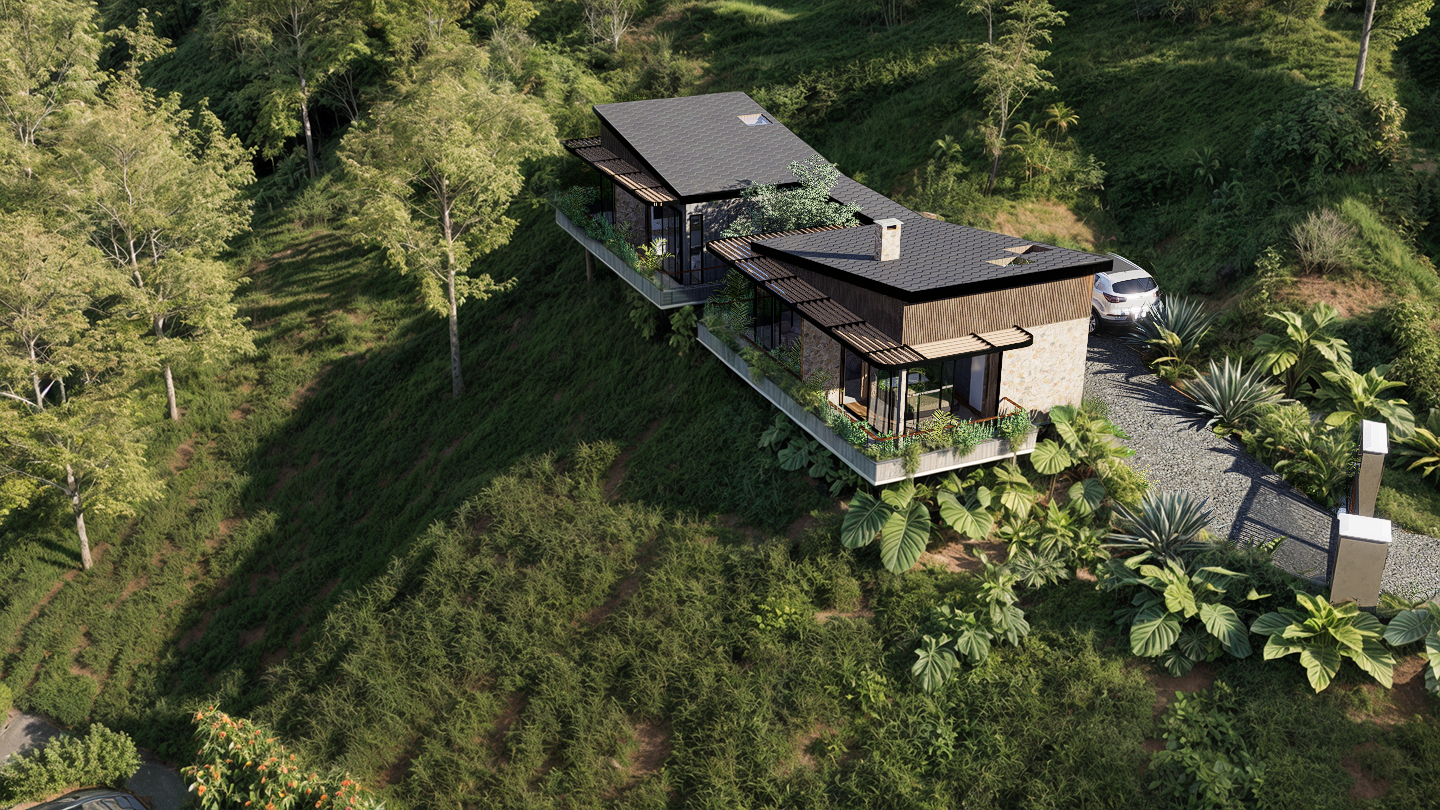
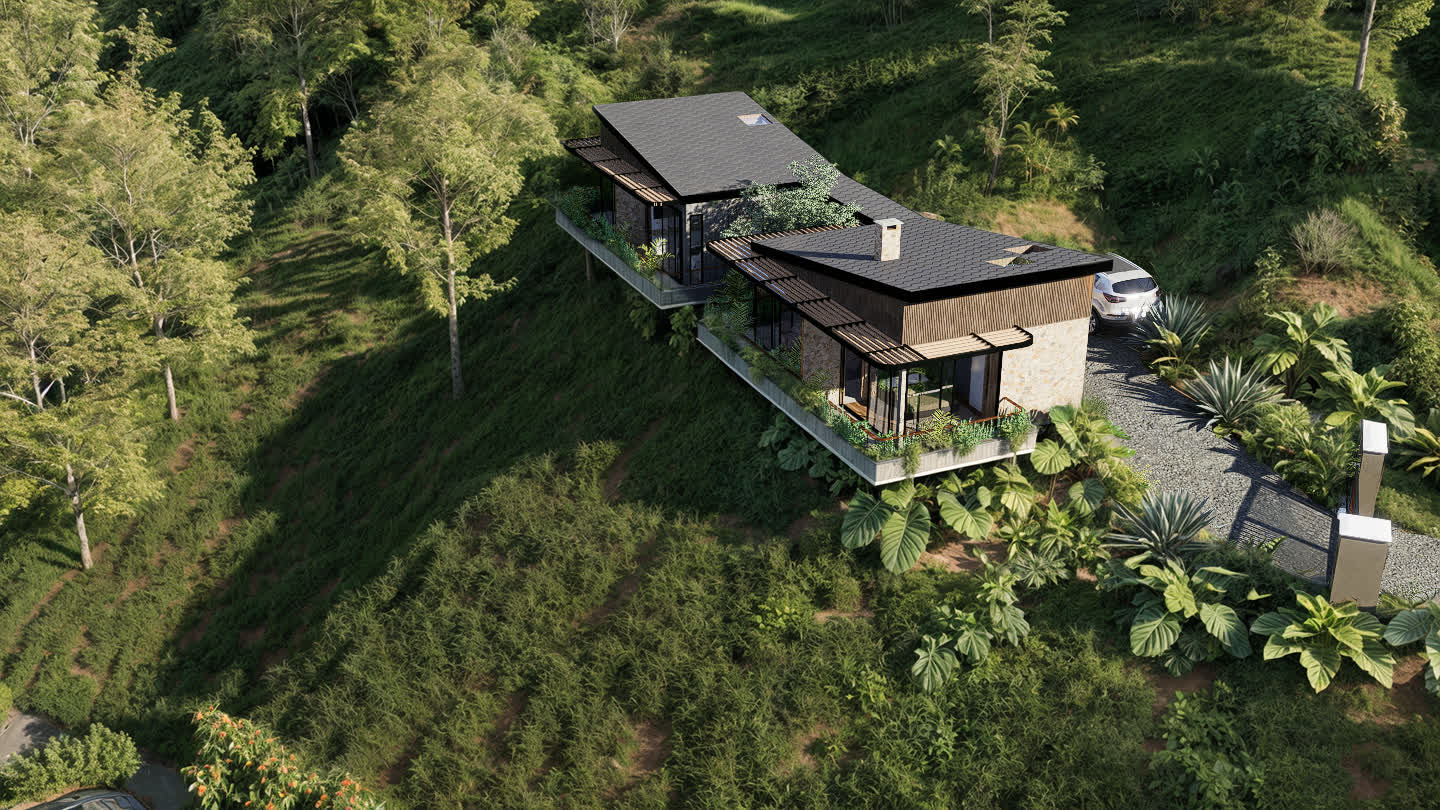
Update quiz, gallery lightbox, optimizations and UI refinements
- Quiz reduced to 3 questions (clima, estilo visual, forma del lote)
- Fullscreen carousel for match results with lightbox gallery
- Image compression (200MB+ → 17MB), lazy loading, PNG→WebP
- WhatsApp CTA with dynamic message based on plan selection
- Floating WhatsApp bubble on results slide
- Gallery zoom, message cards overlay, instant style switching
- Disabled swipe between main steps (button-only navigation)
- Hero gallery cascade with higher opacity

diff --git a/js/match.js b/js/match.js
@@ -24,10 +24,11 @@ const PREGUNTAS = [
   },
   {
     num: '03',
-    texto: '¿De cuántos niveles imaginas tu vivienda?',
+    texto: '¿Qué forma tiene tu lote?',
     opciones: [
-      { label: '1 nivel',    key: 'A' },
-      { label: '2 niveles',  key: 'B' },
+      { label: 'Lote plano',      key: 'A' },
+      { label: 'Lote pendiente',   key: 'B' },
+      { label: 'No tengo lote',    key: 'C' },
     ],
   },
 ];
@@ -35,7 +36,7 @@ const PREGUNTAS = [
 const PUNTOS = [
   { A: { brisa:3, marea:3, cumbre:2 },    B: { bassalto:3, meandro:3, origen:2 } },
   { A: { cumbre:2, brisa:2, marea:1 },    B: { origen:2, meandro:2, bassalto:1 }, C: { meandro:2, bassalto:2, origen:1 }, D: { cumbre:1, brisa:1, marea:2, origen:1 } },
-  { A: { bassalto:2, cumbre:2, origen:2, brisa:2, marea:2 },  B: { meandro:3 } },
+  { A: { bassalto:2, brisa:2, origen:2, marea:2 },  B: { meandro:3, cumbre:2 },  C: { bassalto:1, meandro:1, cumbre:1, brisa:1, origen:1, marea:1 } },
 ];
 
 const TIEBREAK_ORDER = ['brisa', 'origen', 'marea', 'cumbre', 'meandro', 'bassalto'];
@@ -130,18 +131,27 @@ function selectOption(qi, key, btn) {
   btn.classList.add('is-selected');
   respuestas[qi] = key;
 
-  // Crossfade background image for this option
+  // Show background image for this option
   const question = btn.closest('.match__question');
   const bgImg = question.querySelector('.match__q-bg');
   const imgSrc = bgImg.dataset[`bg${key}`];
+  const isSwatch = btn.classList.contains('match__swatch');
+
   if (imgSrc) {
     if (bgImg.src.includes(imgSrc)) return;
-    bgImg.classList.remove('is-visible');
-    setTimeout(() => {
+    if (isSwatch) {
       bgImg.src = imgSrc;
-      bgImg.onload = () => bgImg.classList.add('is-visible');
-      if (bgImg.complete) bgImg.classList.add('is-visible');
-    }, 300);
+      bgImg.classList.add('is-visible');
+    } else {
+      bgImg.classList.remove('is-visible');
+      setTimeout(() => {
+        bgImg.src = imgSrc;
+        bgImg.onload = () => bgImg.classList.add('is-visible');
+        if (bgImg.complete) bgImg.classList.add('is-visible');
+      }, 300);
+    }
+  } else {
+    bgImg.classList.remove('is-visible');
   }
 
   // Enable "Siguiente" button
@@ -159,6 +169,15 @@ function showQuestion(n) {
     seg.classList.toggle('is-done', i < n);
     seg.classList.toggle('is-current', i === n);
   });
+
+  // Preload swatch images when entering P2
+  if (n === 1) {
+    const bg = questionEls[1].querySelector('.match__q-bg');
+    ['A','B','C','D'].forEach(k => {
+      const src = bg.dataset[`bg${k}`];
+      if (src) { const img = new Image(); img.src = src; }
+    });
+  }
 }
 
 function calcularTop3() {
@@ -298,10 +317,27 @@ function openLightbox(images, alt) {
   track.innerHTML = '';
   dots.innerHTML = '';
 
+  const messages = [
+    'Elige tu estilo.\nNosotros diseñamos.',
+    'Precio fijo.\nSin sorpresas.',
+    'Tu casa.\nTu método.',
+  ];
+  const positions = ['top-right', 'bottom-left', 'top-right', 'bottom-left'];
+  const shuffled = [...messages].sort(() => Math.random() - 0.5);
+
   images.forEach((src, i) => {
     const slide = document.createElement('div');
     slide.className = 'match__lightbox-slide';
-    slide.innerHTML = `<img src="${src}" alt="${alt}" />`;
+    let cardHTML = '';
+    if (i < shuffled.length) {
+      const pos = positions[i % positions.length];
+      cardHTML = `<div class="lightbox__msg lightbox__msg--${pos}">${shuffled[i].replace('\n','<br>')}</div>`;
+    }
+    slide.innerHTML = `<img src="${src}" alt="${alt}" />${cardHTML}`;
+    slide.querySelector('img').addEventListener('click', (e) => {
+      e.stopPropagation();
+      e.target.classList.toggle('is-zoomed');
+    });
     track.appendChild(slide);
 
     const dot = document.createElement('span');

diff --git a/styles/sections/match.css b/styles/sections/match.css
@@ -220,16 +220,17 @@
   position: absolute;
   top: var(--space-5);
   left: var(--space-5);
-  padding: var(--space-2) var(--space-4);
+  padding: var(--space-3) var(--space-5);
   background: var(--color-oro);
   color: var(--color-negro);
   font-family: var(--font-body);
-  font-size: var(--text-xs);
-  font-weight: 500;
+  font-size: var(--text-sm);
+  font-weight: 600;
   letter-spacing: 0.1em;
   text-transform: uppercase;
   z-index: 3;
   border-radius: 4px;
+  box-shadow: 0 4px 16px rgba(0, 0, 0, 0.3);
 }
 
 .match__slide-info {
@@ -380,7 +381,7 @@
 .match__lightbox-close {
   position: absolute;
   top: var(--space-4);
-  right: var(--space-4);
+  left: var(--space-4);
   z-index: 22;
   width: 40px;
   height: 40px;
@@ -446,6 +447,13 @@
   max-height: 80%;
   object-fit: contain;
   border-radius: var(--glass-radius);
+  transition: transform 300ms ease;
+  cursor: zoom-in;
+}
+
+.match__lightbox-slide img.is-zoomed {
+  transform: scale(2.5);
+  cursor: zoom-out;
 }
 
 .match__lightbox-slide {
@@ -456,8 +464,35 @@
   align-items: center;
   justify-content: center;
   padding: var(--space-8) var(--space-4);
+  position: relative;
 }
 
+
+/* Lightbox message cards */
+.lightbox__msg {
+  position: absolute;
+  z-index: 2;
+  padding: var(--space-4) var(--space-5);
+  background: rgba(13, 13, 11, 0.85);
+  border: 1px solid rgba(200, 184, 154, 0.2);
+  font-family: var(--font-display);
+  font-size: var(--text-xl);
+  font-weight: 500;
+  font-style: italic;
+  line-height: 1.2;
+  color: #fff;
+  max-width: 220px;
+}
+
+.lightbox__msg--top-right {
+  top: var(--space-8);
+  right: var(--space-4);
+}
+
+.lightbox__msg--bottom-left {
+  bottom: var(--space-8);
+  left: var(--space-4);
+}
 
 .match__lightbox-dots {
   display: flex;

diff --git a/styles/base.css b/styles/base.css
@@ -158,18 +158,18 @@ a {
 /* --- WhatsApp floating bubble --- */
 .wa-bubble {
   position: fixed;
-  bottom: calc(var(--space-6) + 36px);
+  top: var(--space-5);
   right: var(--space-4);
   z-index: 10000;
-  width: 52px;
-  height: 52px;
+  width: 60px;
+  height: 60px;
   display: none;
   align-items: center;
   justify-content: center;
-  background: #25D366;
+  background: var(--color-oro);
   border-radius: 50%;
   box-shadow: 0 4px 16px rgba(0, 0, 0, 0.3);
-  color: #fff;
+  color: var(--color-negro);
   text-decoration: none;
   -webkit-tap-highlight-color: transparent;
   transition: transform var(--transition-fast), box-shadow var(--transition-fast);
@@ -180,8 +180,8 @@ a {
 }
 
 .wa-bubble svg {
-  width: 26px;
-  height: 26px;
+  width: 30px;
+  height: 30px;
 }
 
 .visually-hidden {

diff --git a/index.html b/index.html
@@ -4,6 +4,7 @@
   <meta charset="UTF-8" />
   <meta name="viewport" content="width=device-width, initial-scale=1.0" />
   <meta name="theme-color" content="#0D0D0B" />
+  <meta name="description" content="Select CNTXT — Diseños de vivienda de autor. Elige, personaliza y construye tu casa ideal." />
   <title>Select CNTXT — Diseños de Arquitectura</title>
 
   <link rel="preconnect" href="https://fonts.googleapis.com" />
@@ -89,7 +90,7 @@
       <div class="step__content">
         <p class="hero__eyebrow">Select CNTXT</p>
         <h1 class="hero__headline">El buen diseño no debería ser un lujo</h1>
-        <p class="hero__sub">Hemos creado un lugar especializado para elegir el diseño de tu vivienda, personalizarla y tener todo para construirla.</p>
+        <p class="hero__sub">Diseñar tu casa no debería ser complicado. Con SELECT elige, personaliza y construye. Todo con eficiencia y buen gusto.</p>
       </div>
 
       <footer class="step__footer">
@@ -101,7 +102,7 @@
          02 · PRECIOS
     ══════════════════════════════════════ -->
     <section id="step-cta" class="step" data-step="1" aria-label="Paso 2: Diseños">
-      <img class="cta__bg" src="assets/renders/porque-bg.png" alt="" aria-hidden="true" />
+      <img class="cta__bg" src="assets/renders/porque-bg.webp" alt="" aria-hidden="true" loading="lazy" />
       <div class="cta__scroll">
         <div class="cta__header">
           <p class="cta__eyebrow">Select CNTXT</p>
@@ -201,10 +202,11 @@
           <div class="match__q-overlay"></div>
           <div class="match__q-body">
             <p class="match__q-num">Pregunta 03 de 03</p>
-            <h2 class="match__q-text">¿De cuántos niveles imaginas tu vivienda?</h2>
+            <h2 class="match__q-text">¿Qué forma tiene tu lote?</h2>
             <div class="match__options">
-              <button class="match__opt" data-q="2" data-key="A">1 nivel</button>
-              <button class="match__opt" data-q="2" data-key="B">2 niveles</button>
+              <button class="match__opt" data-q="2" data-key="A">Lote plano</button>
+              <button class="match__opt" data-q="2" data-key="B">Lote pendiente</button>
+              <button class="match__opt" data-q="2" data-key="C">No tengo lote</button>
             </div>
           </div>
           <div class="match__q-footer">

diff --git a/styles/sections/hero.css b/styles/sections/hero.css
@@ -23,7 +23,7 @@
 
 @keyframes galleryFadeIn {
   0%   { opacity: 0; }
-  100% { opacity: 0.25; }
+  100% { opacity: 0.65; }
 }
 
 .hero__col {